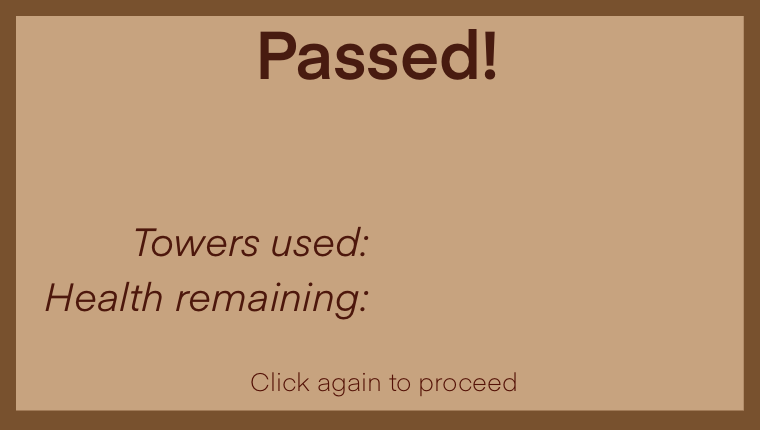
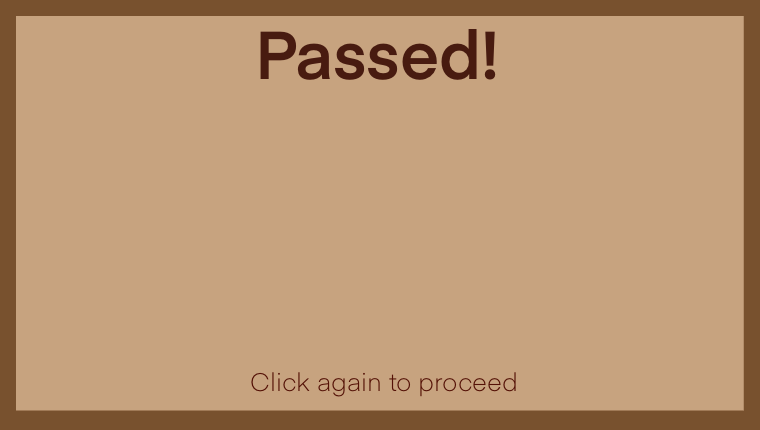
Implemented level 4 as a trial to adding more levels.
Discovered the tower image in query is not displayed correctly, fixed.

Changed region(s): [[0.0605, 0.6651, 0.4842, 0.7558], [0.1816, 0.514, 0.4842, 0.6047]]

diff --git a/pygame major project 2D tower defence by wallace/main.py b/pygame major project 2D tower defence by wallace/main.py
@@ -117,11 +117,22 @@ def pass_level(level: str):
     # no more enemies to be spawned, all spawned enemies killed --> passed!
     if not ingame_level_data.Ingame_data["Enemy_prep_list"] and not ingame_level_data.Ingame_data["Enemy_list"]:
         ingame_level_data.Ingame_data["Dialogue_list"][1].draw()
+        
+        show_level = player_font.render(level, True, (255, 255, 255))
+        screen.blit(show_level, [i * ingame_level_data.Ingame_data["resize_factor"] for i in [440, 150]])
+
+        show_tower_placed = player_font.render(f"tower placed: {ingame_level_data.Ingame_data["tower_placed"]}", True, (38, 255, 74))
+        screen.blit(show_tower_placed, [i * ingame_level_data.Ingame_data["resize_factor"] for i in [180, 240]])
+
+        show_health_remaining = player_font.render(f"health remaining : {int(ingame_level_data.Ingame_data["current_player_health"])}", True, (38, 255, 74))
+        screen.blit(show_health_remaining, [i * ingame_level_data.Ingame_data["resize_factor"] for i in [180, 280]])
+
+        pygame.display.update()
+
         play_sound_pause_music("happyendSOUND")
         time.sleep(0.5)
         global level_selected 
         level_selected = -1
-        pygame.display.update()
 
         not_clicked = True
         while not_clicked:
@@ -276,7 +287,7 @@ def path_point_distance_check(location: Vector2, min_distance: float):
         distance: float
     """
     old_point = None
-        #print(ingame_level_data.Ingame_data["checkpoints"]) # error testing
+    #print(ingame_level_data.Ingame_data["checkpoints"]) # error testing
     min_distance *= ingame_level_data.Ingame_data["resize_factor"]
     for i in ingame_level_data.Ingame_data["checkpoints"]:
         i = Vector2(i)
@@ -284,7 +295,7 @@ def path_point_distance_check(location: Vector2, min_distance: float):
         if old_point:
             # some vector manipulations to find out distance of the 
             path_normalized = pygame.Vector2.normalize(i - old_point)
-                #pygame.draw.line(screen, (0,0,233), old_point, i, 3) # error testing
+            pygame.draw.line(screen, (0,0,233), old_point, i, 3) # error testing
             projection_from_i = pygame.Vector2.dot(path_normalized, i - location) * path_normalized
             projection_from_old_point = pygame.Vector2.dot(path_normalized, old_point - location) * path_normalized
             
@@ -464,7 +475,9 @@ def initialise(level):
     time_level_init = pygame.time.get_ticks()/1000
 
     ingame_level_data.Ingame_data["held_item"] = None
-    for c in config.Level_preset["level1"]["checkpoints"]:
+
+    ingame_level_data.Ingame_data["checkpoints"] = []
+    for c in config.Level_preset[level]["checkpoints"]:
         ingame_level_data.Ingame_data["checkpoints"].append((c[0] * ingame_level_data.Ingame_data["resize_factor"], c[1] * ingame_level_data.Ingame_data["resize_factor"]))
     ingame_level_data.Ingame_data["enemy_count"] = config.Level_preset[level]["enemy_count"]
 
@@ -659,6 +672,151 @@ while running:
                             k.resize(ingame_level_data.Ingame_data["resize_factor"])
 
                         background = pygame.transform.scale_by(config.Level_preset["level1"]["background"], ingame_level_data.Ingame_data["resize_factor"])
+
+
+                # move enemies from prep list to list at certain time
+                spawn_enemies()
+
+                # put the changed things on screen
+                pygame.display.update()
+
+                clock.tick(fps)
+
+        case 4:
+            initialise("level4")
+
+
+            # start loop for level 4
+            while level_selected == 4:
+                # insert background image
+                screen.fill((30, 10, 0))
+                screen.blit(background, (0, 0))
+
+                # display player health
+                display_player_data()
+                
+                error_message()
+                ingame_level_data.Ingame_data["Tower_list"].draw(screen)
+                for tower in ingame_level_data.Ingame_data["Tower_list"]:
+                    tower.aim()
+
+                ingame_level_data.Ingame_data["Attack_list"].draw(screen)
+                for attack in ingame_level_data.Ingame_data["Attack_list"]:
+                    attack.tick()
+
+                # make every Enemy object do what they are supposed to
+                for enemy in ingame_level_data.Ingame_data["Enemy_list"]:
+                    enemy.move()
+                ingame_level_data.Ingame_data["Enemy_list"].draw(screen)
+
+                for enemy in  ingame_level_data.Ingame_data["Enemy_list"]:
+                    enemy.show_health(enemy.health, enemy.location)
+                    
+                for shop_item in ingame_level_data.Ingame_data["Shop_item_list"]:
+                    shop_item.draw()
+
+                for button in ingame_level_data.Ingame_data["Button_list"]:
+                    button.draw()
+
+                # check if passed
+                pass_level("level4")
+
+                # check if have health
+                fail_level()
+                
+                # function to exit the game while player pressed X on game window
+                for event in pygame.event.get():
+                    if event.type == pygame.QUIT:
+                        running = False
+                        level_selected = False
+
+                    elif event.type == pygame.MOUSEBUTTONDOWN:
+                        mouse = pygame.mouse.get_pos()
+                        # print(mouse) # for testing
+                        # pressed on UI
+                        if ingame_level_data.Ingame_data["Rect_list"][0].check_press(mouse):
+
+                            if ingame_level_data.Ingame_data["Button_list"][0].check_press(mouse): # pressed on pause button
+                                pause_level()
+                                break
+                                
+
+                            elif ingame_level_data.Ingame_data["Button_list"][1].check_press(mouse): # pressed on home button
+                                level_selected = -1
+                                ingame_level_data.Ingame_data["Enemy_dead_list"].empty()
+                                ingame_level_data.Ingame_data["Enemy_list"].empty()
+                                ingame_level_data.Ingame_data["Enemy_prep_list"] = []
+                                ingame_level_data.Ingame_data["Tower_list"].empty()
+                                play_sound_pause_music("homeSOUND")
+                                break
+
+
+                            elif ingame_level_data.Ingame_data["held_item"] == None: # pressed shop and has not bought anything yet
+                                for i in ingame_level_data.Ingame_data["Shop_item_list"]:
+                                    if i.check_press(mouse):
+                                        if i.name == "Linear tower":
+                                            if ingame_level_data.Ingame_data["current_player_currency"] >= i.price: # enough currency to buy!
+                                                ingame_level_data.Ingame_data["current_player_currency"] -= i.price
+                                                ingame_level_data.Ingame_data["held_item"] = 1
+                                                break
+                                            else: error_list.append([2, f"You need {i.price - ingame_level_data.Ingame_data["current_player_currency"]} more to buy the tower."])
+
+                                        elif i.name == "Parabola tower":
+                                            if ingame_level_data.Ingame_data["current_player_currency"] >= i.price: # enough currency to buy!
+                                                ingame_level_data.Ingame_data["current_player_currency"] -= i.price
+                                                ingame_level_data.Ingame_data["held_item"] = 2
+                                                break
+                                            else: error_list.append([2, f"You need {i.price - ingame_level_data.Ingame_data["current_player_currency"]} more to buy the tower."])
+                                            
+                                        else:
+                                           error_list.append([2, i.name + 'this is not yet implemented'])
+                                break
+
+                            else: # clicked on shop UI with a item held -> they should not
+                                error_list.append([2, "You are holding a tower! click on the battlefield to place it."]) 
+                                break
+
+                        #  pressing on the field
+                        elif ingame_level_data.Ingame_data["Rect_list"][1].check_press(mouse): 
+                            match ingame_level_data.Ingame_data["held_item"]:
+                                case None: # check if pressing on tower
+                                    clicked = False
+                                    for i in ingame_level_data.Ingame_data["Tower_list"]:
+                                        if i.check_press(mouse):
+                                            clicked = True
+                                            break
+                                    if not clicked: # not pressing on any tower
+                                        error_list.append([2, "You are not holding or clicking on a tower."])
+                                    break
+
+                                case 1:
+                                    place_tower("Linear", "level4", Vector2(pygame.mouse.get_pos()))
+                                    break
+
+                                case 2:
+                                    place_tower("Parabola", "level4", Vector2(pygame.mouse.get_pos()))
+                                    break
+                        
+                        else: # clicking out of bounds
+                            error_list.append([2, "Here is out of bounds!"])
+
+
+                    elif event.type == pygame.VIDEORESIZE:
+                        resize_factor_get()
+                        generate_button("level4")
+                        player_font = pygame.font.SysFont(config.Initialise["player_font"][0], round(config.Initialise["player_font"][1] * ingame_level_data.Ingame_data["resize_factor"]), config.Initialise["player_font"][2], config.Initialise["player_font"][3])
+                        player_font = player_font = pygame.font.SysFont(config.Initialise["player_font"][0], round(config.Initialise["player_font"][1]  * ingame_level_data.Ingame_data["resize_factor"]), config.Initialise["player_font"][2], config.Initialise["player_font"][3])
+                        ingame_level_data.Ingame_data["checkpoints"] = []
+                        for c in config.Level_preset["level4"]["checkpoints"]:
+                            ingame_level_data.Ingame_data["checkpoints"].append((c[0] * ingame_level_data.Ingame_data["resize_factor"], c[1] * ingame_level_data.Ingame_data["resize_factor"]))
+                        for i in ingame_level_data.Ingame_data["Enemy_list"]:
+                            i.resize(ingame_level_data.Ingame_data["resize_factor"])
+                        for j in ingame_level_data.Ingame_data["Tower_list"]:
+                            j.resize(ingame_level_data.Ingame_data["resize_factor"])
+                        for k in ingame_level_data.Ingame_data["Attack_list"]:
+                            k.resize(ingame_level_data.Ingame_data["resize_factor"])
+
+                        background = pygame.transform.scale_by(config.Level_preset["level4"]["background"], ingame_level_data.Ingame_data["resize_factor"])
 
 
                 # move enemies from prep list to list at certain time

diff --git a/pygame major project 2D tower defence by wallace/config.py b/pygame major project 2D tower defence by wallace/config.py
@@ -87,7 +87,7 @@ Level_preset = {
         # (0,0) is not a valid checkpoint
         "checkpoints": [(0, 1), (260, 180), (120, 300), (300, 400), (530, 230), (710, 350), (570, 470), (700, 570)],
         "player_health": 100,
-        "player_currency": 10000,
+        "player_currency": 100,
         # pause, home
         "button_data": [[Initialise["button_pauseIMG"],[840,0]],[Initialise["button_homeIMG"],[890,0]]],
         # badend, happyend
@@ -109,7 +109,7 @@ Level_preset = {
                 # distance in pixels
                 "distance_per_second": 100,
                 "image": Initialise["enemy_snakeIMG"],
-                "spawn_time": (tuple([x for x in range(10, 10000)])),
+                "spawn_time": [17, 19, 20, 21, 34, 35, 36, 37, 38, 39, 40, 41, 42, 43, 44, 45, 47, 48, 49, 50, 51, 52, 53, 54, 55, 56, 57, 58],
                 "bounty": 20
             },
             "ant_g": {
@@ -117,22 +117,22 @@ Level_preset = {
                 # distance in pixels
                 "distance_per_second": 200,
                 "image": Initialise["enemy_ant_gIMG"],
-                "spawn_time": {1, 2,3,4,5}, # (tuple([x/100 for x in range(1000)])),
-                "bounty": 10
+                "spawn_time": {1, 5, 6, 13, 14, 16, 33, 34, 36, 37, 48, 50, 52},
+                "bounty": 15
             },
             "ant_s": {
-                "health": 200,
+                "health": 150,
                 # distance in pixels
-                "distance_per_second": 100,
+                "distance_per_second": 150,
                 "image": Initialise["enemy_ant_sIMG"],
-                "spawn_time": {7,8,9,20}, # (tuple([x/100 for x in range(1000)])),
+                "spawn_time": {18, 19, 20, 21, 22, 23, 32, 33, 34, 35, 36, 37, 48, 49, 50, 51, 52, 53, 54, 55}, # (tuple([x/100 for x in range(1000)])),
                 "bounty": 10
             }
         },
         # (0,0) is not a valid checkpoint
-        "checkpoints": [(0, 1), (260, 180), (120, 300), (300, 400), (530, 230), (710, 350), (570, 470), (700, 570)],
+        "checkpoints": [(0, 1), (282, 279), (400, 187), (744, 550)],
         "player_health": 100,
-        "player_currency": 100,
+        "player_currency": 150,
         # pause, home
         "button_data": [[Initialise["button_pauseIMG"],[840,0]],[Initialise["button_homeIMG"],[890,0]]],
         # badend, happyend
@@ -157,7 +157,7 @@ Tower_preset = {
         "range" : 200,
     },
     "Parabola tower": {
-        "dps": 10,
+        "dps": 30,
         "description" : "Knocks back!",
         "details" : ["This tower shoots a growing curve knocking back enemies. This is also how parabola", " graphs looks like - also a curve curving at a linear rate. The equation would be y = Ax^2", " or Ay^2 = x, where ^2 means to the power of two. Be aware that you will only learn", " about parabolas facing verticly and horizontally in high school."],
         "price" : 50,

diff --git a/pygame major project 2D tower defence by wallace/classes/button.py b/pygame major project 2D tower defence by wallace/classes/button.py
@@ -161,7 +161,7 @@ class Shop_item():
 
         self.query_rect =[i * resize_factor for i in [50, 50, 840, 440]]
         self.query_inner_rect = [i * resize_factor for i in [60, 60, 820, 420]]
-        self.query_image_cords = [i * resize_factor for i in [70, 70]]
+        self.query_image_cords = [i * resize_factor for i in [70, -30]]
         self.query_line_start = [i * resize_factor for i in [70, 180]]
         self.query_line_end = [i * resize_factor for i in [870, 180]]
         self.query_line_width = int(resize_factor * 5)
@@ -190,7 +190,7 @@ class Shop_item():
             pygame.draw.rect(screen, (120, 81, 46), pygame.Rect(self.query_inner_rect))
 
             # above line
-            screen.blit(pygame.transform.scale_by(self.towerIMG, 3), self.query_image_cords)
+            screen.blit(pygame.transform.scale_by(self.towerIMG, 2), self.query_image_cords)
             screen.blit(self.show_query_name, self.query_name_cords)
             screen.blit(self.show_query_price, self.query_price_cords)
             screen.blit(self.show_query_dps, self.query_dps_cords)

diff --git a/pygame major project 2D tower defence by wallace/test.py b/pygame major project 2D tower defence by wallace/test.py
@@ -1,17 +1,4 @@
-            # Initialise level 1
-            ingame_level_data.Ingame_data["current_player_health"] = config.Level_preset[level]["player_health"]
-            ingame_level_data.Ingame_data["current_player_currency"] = config.Level_preset[level]["player_currency"]
-            generate_enemies(level)
-            generate_button(level)
-            generate_music(level)
-
-            global background
-            background = pygame.transform.scale_by(config.Level_preset[level]["background"], ingame_level_data.Ingame_data["resize_factor"])
-
-            # The enemies spawn relative to when the
-            global time_level_init
-            time_level_init = pygame.time.get_ticks()/1000
-
-            ingame_level_data.Ingame_data["held_item"] = None
-            ingame_level_data.Ingame_data["checkpoints"] = config.Level_preset[level]["checkpoints"]
-            ingame_level_data.Ingame_data["enemy_count"] = config.Level_preset[level]["enemy_count"]
+(277, 268)
+(384, 197)
+(282, 279)
+(395, 187)
